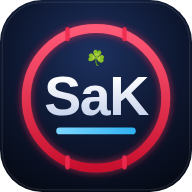
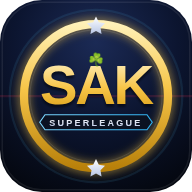
Rebrand to the SAK Superleague: crest, wordmark, gold theme
New crest (gold championship ring, SAK in gold, SUPERLEAGUE banner,
stars, clover) with regenerated 192/512 PNGs and an OG share image.
Wordmark component used by the sidebar, phone header, login and TV
board. Theme leans into gold as the brand accent: section bars, active
nav, tabs, page-header tiles and the arena glow; deeper ice background.
Name updated in the title, manifest, service worker, push notification
titles, login and league page (She's A Keeper stays as the tagline).

Claude-Session: https://claude.ai/code/session_01HbpgWFAJLCubqJUmzfdNwV

diff --git a/src/components/Layout.tsx b/src/components/Layout.tsx
@@ -1,5 +1,6 @@
 import { useEffect, useMemo, useRef, useState, type ReactNode } from 'react';
 import { NavLink, useLocation, useNavigate } from 'react-router-dom';
+import { Wordmark, WordmarkStack } from './Brand';
 import { useLeague, useNow } from '../lib/store';
 import { realtimeChannel, supabase } from '../lib/supabase';
 import { ago, countdown } from '../lib/format';
@@ -130,7 +131,7 @@ export function Layout({ children }: { children: ReactNode }) {
     }
   }, [myTurn, current]);
   useEffect(() => {
-    document.title = myTurn ? `⏰ YOUR PICK · ${countdown(remaining)}` : 'SaK League';
+    document.title = myTurn ? `⏰ YOUR PICK · ${countdown(remaining)}` : 'SAK Superleague';
   }, [myTurn, Math.floor(remaining / 1000)]);
 
   // any open client keeps the draft clock honest (the server double-checks the deadline)
@@ -158,18 +159,18 @@ export function Layout({ children }: { children: ReactNode }) {
   return (
     <div className="lg:flex" style={{ '--banner': banner ? '2.25rem' : '0px' } as React.CSSProperties}>
       {/* desktop sidebar */}
-      <aside className="sticky top-0 hidden h-dvh w-64 shrink-0 flex-col border-r border-white/[.06] bg-[#0a1122]/70 p-4 backdrop-blur-xl lg:flex">
+      <aside className="sticky top-0 hidden h-dvh w-64 shrink-0 flex-col border-r border-white/[.06] bg-[#091020]/70 p-4 backdrop-blur-xl lg:flex">
         <button onClick={() => nav('/')} className="mb-7 flex items-center gap-3 px-1">
-          <img src="./icon.svg" className="h-10 w-10 drop-shadow-[0_6px_16px_rgba(239,42,79,.45)]" alt="" />
-          <div className="text-left"><div className="h-display text-shine text-2xl leading-none">SaK League</div><div className="mt-0.5 text-[11px] font-medium text-mute">She’s A Keeper · {league?.season}</div></div>
+          <img src="./icon.svg" className="h-11 w-11 drop-shadow-[0_6px_16px_rgba(247,197,72,.45)]" alt="" />
+          <Wordmark size="sm" tagline={`She’s A Keeper · ${league?.season ?? ""}`} className="text-left" />
         </button>
         <nav className="flex flex-col gap-0.5">
           {[...items, ...moreItems].filter((i, n, a) => a.findIndex((x) => x.to === i.to) === n).map((i) => {
             const a = isActive(i.to);
             return (
               <NavLink key={i.to} to={i.to} end={i.to === '/'} className={`relative flex items-center gap-3 rounded-xl px-3 py-2.5 text-sm font-semibold transition ${a ? 'bg-gradient-to-r from-white/[.14] to-white/[.03] text-white shadow-[inset_0_1px_0_rgba(255,255,255,.08)]' : 'text-slate-400 hover:bg-white/[.05] hover:text-slate-100'}`}>
-                {a && <span className="absolute bottom-2 left-0 top-2 w-1 rounded-r-full bg-gradient-to-b from-goal to-blue" />}
-                <i.icon size={18} strokeWidth={a ? 2.4 : 2} className={a ? 'text-blue' : ''} />{i.label}
+                {a && <span className="accent-bar absolute bottom-2 left-0 top-2 w-1 rounded-r-full" />}
+                <i.icon size={18} strokeWidth={a ? 2.4 : 2} className={a ? 'text-gold' : ''} />{i.label}
                 {i.to === '/chat' && chatUnread && <span className="ml-auto grid h-5 min-w-5 place-items-center rounded-full bg-goal px-1.5 text-[11px] font-bold text-white shadow-[0_0_8px_rgba(239,42,79,.9)]">{chatCount > 99 ? '99+' : chatCount || ''}</span>}
                 {i.to === '/draft' && draft?.status === 'live' && <span className="ml-auto h-2 w-2 animate-pulse rounded-full bg-emerald-400" />}
               </NavLink>
@@ -185,11 +186,11 @@ export function Layout({ children }: { children: ReactNode }) {
 
       <div className="min-w-0 flex-1">
         {/* mobile top bar */}
-        <header className="pt-safe sticky top-0 z-30 border-b border-white/[.06] bg-[#070c18]/75 backdrop-blur-xl lg:hidden">
+        <header className="pt-safe sticky top-0 z-30 border-b border-white/[.06] bg-[#05080f]/75 backdrop-blur-xl lg:hidden">
           <div className="flex h-12 items-center gap-2 px-3">
             <button onClick={() => nav('/')} className="flex items-center gap-2">
-              <img src="./icon.svg" className="h-7 w-7 drop-shadow-[0_4px_10px_rgba(239,42,79,.5)]" alt="" />
-              <span className="h-display text-shine text-xl">SaK</span>
+              <img src="./icon.svg" className="h-8 w-8 drop-shadow-[0_4px_10px_rgba(247,197,72,.5)]" alt="" />
+              <WordmarkStack />
             </button>
             <div className="flex-1" />
             <button className="relative grid h-9 w-9 place-items-center rounded-full bg-white/[.05] ring-1 ring-white/10" onClick={openNotif} aria-label="Notifications">
@@ -217,7 +218,7 @@ export function Layout({ children }: { children: ReactNode }) {
             const a = isActive(i.to);
             return (
               <NavLink key={i.to} to={i.to} end={i.to === '/'} className="relative flex flex-col items-center justify-center gap-1">
-                <span className={`grid h-8 w-12 place-items-center rounded-full transition-all duration-200 ${a ? 'bg-gradient-to-b from-white/20 to-white/[.06] text-white shadow-[0_0_18px_-4px_rgba(76,195,255,.7)]' : 'text-slate-400'}`}>
+                <span className={`grid h-8 w-12 place-items-center rounded-full transition-all duration-200 ${a ? 'bg-gradient-to-b from-gold/30 to-white/[.06] text-gold shadow-[0_0_18px_-4px_rgba(247,197,72,.7)]' : 'text-slate-400'}`}>
                   <i.icon size={20} strokeWidth={a ? 2.4 : 2} />
                 </span>
                 <span className={`text-[10px] font-bold tracking-wide ${a ? 'text-white' : 'text-mute'}`}>{i.label}</span>

diff --git a/src/index.css b/src/index.css
@@ -4,10 +4,10 @@
 @theme {
   --font-sans: 'Inter', ui-sans-serif, system-ui, -apple-system, 'Segoe UI', Roboto, sans-serif;
   --font-display: 'Barlow Condensed', 'Inter', ui-sans-serif, system-ui, sans-serif;
-  --color-ice: #070c18;
-  --color-rink: #0f1729;
-  --color-boards: #1a2440;
-  --color-line: #243152;
+  --color-ice: #05080f;
+  --color-rink: #0e1527;
+  --color-boards: #182240;
+  --color-line: #233052;
   --color-mute: #8391b3;
   --color-goal: #ef2a4f;
   --color-blue: #4cc3ff;
@@ -27,10 +27,11 @@ body {
 body::before {
   content: ''; position: fixed; inset: 0; z-index: -1; pointer-events: none;
   background:
-    radial-gradient(80% 50% at 50% -10%, rgba(76, 195, 255, .16), transparent 70%),
+    radial-gradient(80% 50% at 50% -10%, rgba(76, 195, 255, .18), transparent 70%),
+    radial-gradient(45% 35% at 0% 0%, rgba(247, 197, 72, .10), transparent 70%),
     radial-gradient(50% 40% at 100% 100%, rgba(239, 42, 79, .10), transparent 70%),
-    radial-gradient(40% 35% at 0% 60%, rgba(52, 211, 153, .06), transparent 70%),
-    linear-gradient(180deg, #0a1122 0%, #070c18 60%);
+    radial-gradient(40% 35% at 0% 60%, rgba(52, 211, 153, .05), transparent 70%),
+    linear-gradient(180deg, #091020 0%, #05080f 60%);
 }
 body::after {
   content: ''; position: fixed; inset: 0; z-index: -1; pointer-events: none; opacity: .5;
@@ -47,9 +48,9 @@ body::after {
 
 /* glass cards: a whisper of light on top, deep shadow below */
 @utility card {
-  @apply rounded-2xl border border-white/[.07];
-  background: linear-gradient(180deg, rgba(255,255,255,.055), rgba(255,255,255,.02)) , rgba(15, 23, 41, .72);
-  box-shadow: inset 0 1px 0 rgba(255,255,255,.06), 0 12px 32px -18px rgba(0,0,0,.8);
+  @apply rounded-2xl border border-white/[.08];
+  background: linear-gradient(180deg, rgba(255,255,255,.06), rgba(255,255,255,.02)) , rgba(14, 21, 39, .74);
+  box-shadow: inset 0 1px 0 rgba(255,255,255,.07), 0 14px 36px -18px rgba(0,0,0,.85);
   backdrop-filter: blur(14px); -webkit-backdrop-filter: blur(14px);
 }
 /* hero card tinted by a team colour: set --tc on the element */
@@ -85,8 +86,12 @@ body::after {
 @utility chip { @apply inline-flex items-center gap-1 rounded-full border border-white/10 bg-white/[.05] px-2 py-0.5 text-[11px] font-semibold text-slate-300; }
 @utility h-display { @apply font-display font-extrabold uppercase tracking-[.03em]; }
 @utility label { @apply text-[11px] font-semibold uppercase tracking-[.12em] text-mute; }
+/* the brand accent bar: gold into ice */
+@utility accent-bar { background: linear-gradient(180deg, #f7c548, #4cc3ff); }
+/* gold hairline under section titles and hero cards */
+@utility gold-rule { background: linear-gradient(90deg, rgba(247,197,72,.7), rgba(247,197,72,0)); height: 1px; }
 @utility tab { @apply shrink-0 rounded-full px-3.5 py-1.5 text-sm font-semibold text-mute transition hover:text-slate-200; }
-@utility tab-on { @apply bg-white text-ice shadow-[0_6px_18px_-8px_rgba(255,255,255,.6)] hover:text-ice; }
+@utility tab-on { @apply text-ice hover:text-ice; background: linear-gradient(180deg, #fff3c4, #f7c548); box-shadow: 0 6px 18px -8px rgba(247,197,72,.8), inset 0 1px 0 rgba(255,255,255,.6); }
 @utility num { font-variant-numeric: tabular-nums; }
 /* silver-ice gradient for big headings */
 @utility text-shine {

diff --git a/src/pages/Login.tsx b/src/pages/Login.tsx
@@ -1,6 +1,7 @@
 import { useEffect, useState } from 'react';
 import { supabase } from '../lib/supabase';
 import { Spinner, TeamBadge } from '../components/ui';
+import { Wordmark } from '../components/Brand';
 import type { Team } from '../lib/types';
 
 type DirTeam = Pick<Team, 'id' | 'name' | 'abbrev' | 'gm_name' | 'login_email' | 'color' | 'emoji' | 'role'>;
@@ -36,7 +37,7 @@ export default function Login() {
     <div className="pt-safe relative flex min-h-dvh flex-col items-center justify-center overflow-hidden px-4 py-10">
       {/* arena lights */}
       <div className="pointer-events-none absolute inset-0">
-        <div className="animate-glow absolute -top-40 left-1/2 h-[520px] w-[820px] -translate-x-1/2 rounded-full" style={{ background: 'radial-gradient(closest-side, rgba(76,195,255,.28), transparent)' }} />
+        <div className="animate-glow absolute -top-40 left-1/2 h-[520px] w-[820px] -translate-x-1/2 rounded-full" style={{ background: 'radial-gradient(closest-side, rgba(247,197,72,.22), transparent)' }} />
         <div className="absolute -left-32 top-10 h-[640px] w-40 rotate-[24deg] bg-gradient-to-b from-white/[.10] to-transparent blur-2xl" />
         <div className="absolute -right-32 top-10 h-[640px] w-40 -rotate-[24deg] bg-gradient-to-b from-white/[.10] to-transparent blur-2xl" />
         <div className="absolute bottom-0 left-1/2 h-64 w-[900px] -translate-x-1/2 rounded-[100%] border-t-[6px] border-goal/20" />
@@ -44,11 +45,11 @@ export default function Login() {
       <div className="relative w-full max-w-md">
         <div className="mb-8 text-center">
           <div className="relative mx-auto mb-4 h-24 w-24">
-            <div className="absolute inset-0 animate-glow rounded-[28px] bg-goal/40 blur-2xl" />
+            <div className="absolute inset-0 animate-glow rounded-[28px] bg-gold/40 blur-2xl" />
             <img src="./icon.svg" alt="" className="relative h-24 w-24 drop-shadow-2xl" />
           </div>
-          <h1 className="h-display text-shine text-5xl leading-none">She’s A Keeper</h1>
-          <p className="mt-2 text-xs font-bold uppercase tracking-[.3em] text-mute">SaK League · est. 2013 · 2026-27</p>
+          <h1><Wordmark size="lg" /></h1>
+          <p className="mt-2 text-xs font-bold uppercase tracking-[.3em] text-mute">She’s A Keeper · est. 2013 · 2026-27</p>
         </div>
 
         {!pick ? (
@@ -92,7 +93,7 @@ export default function Login() {
             </div>
             <label className="label relative text-white/70">Password</label>
             <input className="input relative mt-1" type="password" autoFocus autoComplete="current-password" value={pw}
-              onChange={(e) => setPw(e.target.value)} placeholder="Your SaK password" />
+              onChange={(e) => setPw(e.target.value)} placeholder="Your Superleague password" />
             <button className="btn-primary relative mt-4 w-full py-3 text-base" disabled={busy || !pw}>{busy ? <Spinner /> : '🏒 Drop the puck'}</button>
             <button type="button" className="relative mt-3 w-full text-center text-sm text-white/60" onClick={() => setPick(null)}>Not {pick.gm_name}? Switch team</button>
           </form>

diff --git a/index.html b/index.html
@@ -3,15 +3,19 @@
   <head>
     <meta charset="UTF-8" />
     <meta name="viewport" content="width=device-width, initial-scale=1, viewport-fit=cover" />
-    <meta name="theme-color" content="#070c18" />
+    <meta name="theme-color" content="#05080f" />
     <meta name="apple-mobile-web-app-capable" content="yes" />
     <meta name="apple-mobile-web-app-status-bar-style" content="black-translucent" />
-    <meta name="apple-mobile-web-app-title" content="SaK" />
-    <meta name="description" content="She's A Keeper: the SaK fantasy hockey keeper league. Draft, lineups, trash talk and side bets in one place." />
+    <meta name="apple-mobile-web-app-title" content="SAK" />
+    <meta name="description" content="SAK Superleague (She's A Keeper): the fantasy hockey keeper league. Draft, lineups, trash talk and side bets in one place." />
+    <meta property="og:title" content="SAK Superleague" />
+    <meta property="og:description" content="She's A Keeper fantasy hockey, est. 2013. Draft, lineups, trash talk and side bets." />
+    <meta property="og:image" content="./og.png" />
+    <meta name="twitter:card" content="summary_large_image" />
     <link rel="manifest" href="./manifest.webmanifest" />
     <link rel="icon" href="./icon.svg" type="image/svg+xml" />
     <link rel="apple-touch-icon" href="./icon-192.png" />
-    <title>SaK League</title>
+    <title>SAK Superleague</title>
   </head>
   <body>
     <div id="root"></div>
@@ -22,7 +26,7 @@
         if (ok) return;
         var d = document.createElement('div');
         d.setAttribute('style', 'position:fixed;left:0;right:0;top:0;z-index:99999;background:#ef2a4f;color:#fff;font:600 14px/1.4 -apple-system,system-ui,sans-serif;padding:12px 16px;text-align:center');
-        d.innerHTML = '&#9888;&#65039; Your browser is too old for SaK and pages may look broken. On iPhone update to iOS 16.4 or newer; otherwise open the site in the latest Chrome.';
+        d.innerHTML = '&#9888;&#65039; Your browser is too old for the SAK Superleague and pages may look broken. On iPhone update to iOS 16.4 or newer; otherwise open the site in the latest Chrome.';
         document.body.appendChild(d);
       })();
     </script>

diff --git a/src/components/Brand.tsx b/src/components/Brand.tsx
@@ -1,0 +1,22 @@
+// The SAK Superleague wordmark: "SAK" in championship gold, "SUPERLEAGUE" in tracked silver caps.
+// One component so the sidebar, phone header, login screen and TV board all match.
+export function Wordmark({ size = 'md', tagline, className = '' }: { size?: 'sm' | 'md' | 'lg' | 'xl'; tagline?: string; className?: string }) {
+  const s = { sm: 'text-xl', md: 'text-2xl', lg: 'text-4xl', xl: 'text-6xl' }[size];
+  const sub = { sm: 'text-[9px] tracking-[.18em]', md: 'text-[10px] tracking-[.3em]', lg: 'text-sm tracking-[.34em]', xl: 'text-lg tracking-[.38em]' }[size];
+  return (
+    <span className={`inline-flex flex-col leading-none ${className}`}>
+      <span className={`h-display ${s} leading-none`}><span className="text-gold-shine italic">SAK</span><span className="text-shine ml-1.5 font-black not-italic">SUPERLEAGUE</span></span>
+      {tagline && <span className={`mt-1 font-bold uppercase text-mute ${sub}`}>{tagline}</span>}
+    </span>
+  );
+}
+
+// stacked version for tight spots (the phone header): SAK on top, SUPERLEAGUE small underneath
+export function WordmarkStack({ className = '' }: { className?: string }) {
+  return (
+    <span className={`inline-flex flex-col leading-none ${className}`}>
+      <span className="h-display text-gold-shine text-[22px] italic leading-none">SAK</span>
+      <span className="text-shine -mt-0.5 text-[8px] font-black uppercase tracking-[.3em]">Superleague</span>
+    </span>
+  );
+}

diff --git a/src/components/ui.tsx b/src/components/ui.tsx
@@ -84,7 +84,7 @@ export function Section({ title, right, children, className = '', icon }: { titl
     <section className={className}>
       <div className="mb-2.5 flex items-center justify-between gap-2 px-1">
         <h2 className="h-display flex items-center gap-2 text-lg text-slate-100">
-          {icon ?? <span className="h-4 w-1 rounded-full bg-gradient-to-b from-goal to-blue" />}
+          {icon ?? <span className="accent-bar h-4 w-1 rounded-full" />}
           {title}
         </h2>
         {right}
@@ -198,7 +198,7 @@ export function Skeleton({ className = '' }: { className?: string }) {
 export function PageHeader({ icon, title, sub, right }: { icon: ReactNode; title: ReactNode; sub?: ReactNode; right?: ReactNode }) {
   return (
     <div className="flex items-center gap-3">
-      <div className="grid h-11 w-11 shrink-0 place-items-center rounded-2xl bg-gradient-to-br from-white/15 to-white/[.03] text-white ring-1 ring-white/15 shadow-[0_10px_24px_-12px_rgba(76,195,255,.6)]">{icon}</div>
+      <div className="grid h-11 w-11 shrink-0 place-items-center rounded-2xl bg-gradient-to-br from-white/15 to-white/[.03] text-white ring-1 ring-gold/30 shadow-[0_10px_24px_-12px_rgba(247,197,72,.6)]">{icon}</div>
       <div className="min-w-0 flex-1">
         <h1 className="h-display text-shine truncate text-[26px] leading-none">{title}</h1>
         {sub && <div className="mt-1 text-sm text-mute">{sub}</div>}

diff --git a/supabase/functions/push/index.ts b/supabase/functions/push/index.ts
@@ -52,7 +52,7 @@ Deno.serve(async (req) => {
       if (!u?.user) return new Response(JSON.stringify({ error: 'Sign in first' }), { status: 401, headers: cors });
       const { data: t } = await db.from('teams').select('id,gm_name').eq('user_id', u.user.id).single();
       if (!t) return new Response(JSON.stringify({ error: 'No team' }), { status: 404, headers: cors });
-      const r = await sendToTeam(t.id, { title: '🏒 SaK League', body: `Notifications are on, ${t.gm_name}. See you on draft night.`, url: SITE, tag: 'test' });
+      const r = await sendToTeam(t.id, { title: '🏒 SAK Superleague', body: `Notifications are on, ${t.gm_name}. See you on draft night.`, url: SITE, tag: 'test' });
       return new Response(JSON.stringify(r), { headers: { ...cors, 'Content-Type': 'application/json' } });
     }
 
@@ -61,7 +61,7 @@ Deno.serve(async (req) => {
     const { data: n } = await db.from('notifications').select('id,team_id,kind,body,link').eq('id', id).single();
     if (!n) return new Response('not found', { status: 404, headers: cors });
     const r = await sendToTeam(n.team_id, {
-      title: `${ICONS[n.kind] ?? '🔔'} SaK League`,
+      title: `${ICONS[n.kind] ?? '🔔'} SAK Superleague`,
       body: n.body,
       url: SITE + '#' + (n.link ?? '/'),
       tag: n.kind === 'draft' ? 'draft-clock' : `n${n.id}`,

diff --git a/src/pages/DraftTV.tsx b/src/pages/DraftTV.tsx
@@ -45,9 +45,9 @@ export default function DraftTV() {
       <div className="relative shrink-0 overflow-hidden border-b border-white/10 px-6 py-4"
         style={{ background: `linear-gradient(110deg, color-mix(in oklab, ${tc} 45%, #0b1222), #0b1222 65%)` }}>
         <div className="flex items-center gap-6">
-          <img src="./icon.svg" className="h-14 w-14 drop-shadow-[0_6px_16px_rgba(239,42,79,.45)]" alt="" />
+          <img src="./icon.svg" className="h-14 w-14 drop-shadow-[0_6px_16px_rgba(247,197,72,.45)]" alt="" />
           <div className="min-w-0">
-            <div className="h-display text-shine text-3xl leading-none">SaK League Draft · {season}</div>
+            <div className="h-display text-3xl leading-none"><span className="text-gold-shine italic">SAK</span> <span className="text-shine">Superleague Draft · {season}</span></div>
             <div className="mt-1 text-sm text-white/60">{league?.pick_seconds}s clock · {rounds} rounds · {league?.snake ? 'snake' : 'straight'} · {[...teams].filter((t) => online.has(t.id)).length} GMs in the room</div>
           </div>
           <div className="flex-1" />

diff --git a/src/lib/push.ts b/src/lib/push.ts
@@ -24,7 +24,7 @@ export async function currentSubscription() {
 }
 
 export async function enablePush() {
-  if (!pushSupported()) throw new Error(isIOS() && !isStandalone() ? 'On iPhone, add SaK to your Home Screen first, then turn this on from there.' : 'This browser can’t do push notifications.');
+  if (!pushSupported()) throw new Error(isIOS() && !isStandalone() ? 'On iPhone, add SAK to your Home Screen first, then turn this on from there.' : 'This browser can’t do push notifications.');
   const perm = await Notification.requestPermission();
   if (perm !== 'granted') throw new Error('Notifications are blocked. Allow them for this site in your browser settings.');
   const reg = await swReg();

diff --git a/public/sw.js b/public/sw.js
@@ -1,11 +1,11 @@
-// SaK League service worker: shows push notifications and opens the right page when tapped.
+// SAK Superleague service worker: shows push notifications and opens the right page when tapped.
 self.addEventListener('install', () => self.skipWaiting());
 self.addEventListener('activate', (e) => e.waitUntil(self.clients.claim()));
 
 self.addEventListener('push', (e) => {
   let d = {};
   try { d = e.data ? e.data.json() : {}; } catch { d = { body: e.data && e.data.text() }; }
-  const title = d.title || 'SaK League';
+  const title = d.title || 'SAK Superleague';
   e.waitUntil(self.registration.showNotification(title, {
     body: d.body || '',
     icon: './icon-192.png',

diff --git a/src/pages/League.tsx b/src/pages/League.tsx
@@ -17,7 +17,7 @@ export default function LeaguePage() {
   const tab = (params.get('t') as Tab) ?? 'history';
   return (
     <div className="space-y-4">
-      <PageHeader icon={<Landmark size={22} className="text-gold" />} title="She’s A Keeper" sub="Est. September 2013 · 13th season" />
+      <PageHeader icon={<Landmark size={22} className="text-gold" />} title="SAK Superleague" sub="She’s A Keeper · est. September 2013 · 13th season" />
       {tab === 'history' && <PromoVideo />}
       <div className="scroll-x flex gap-1">
         {([['history', '📜 History'], ['rules', '📘 Rules'], ['money', '💰 Money'], ['votes', '🗳 Proposals']] as const).map(([k, l]) => (

diff --git a/src/main.tsx b/src/main.tsx
@@ -49,7 +49,7 @@ function App() {
       <div className="grid min-h-dvh place-items-center p-6 text-center">
         <div className="card max-w-md p-6">
           <div className="text-4xl">🏒</div>
-          <h1 className="h-display mt-2 text-2xl">SaK League</h1>
+          <h1 className="h-display mt-2 text-2xl">SAK Superleague</h1>
           <p className="mt-2 text-sm text-mute">This build has no database configured. Set VITE_SUPABASE_URL and VITE_SUPABASE_ANON_KEY in <code>.env</code>.</p>
         </div>
       </div>
